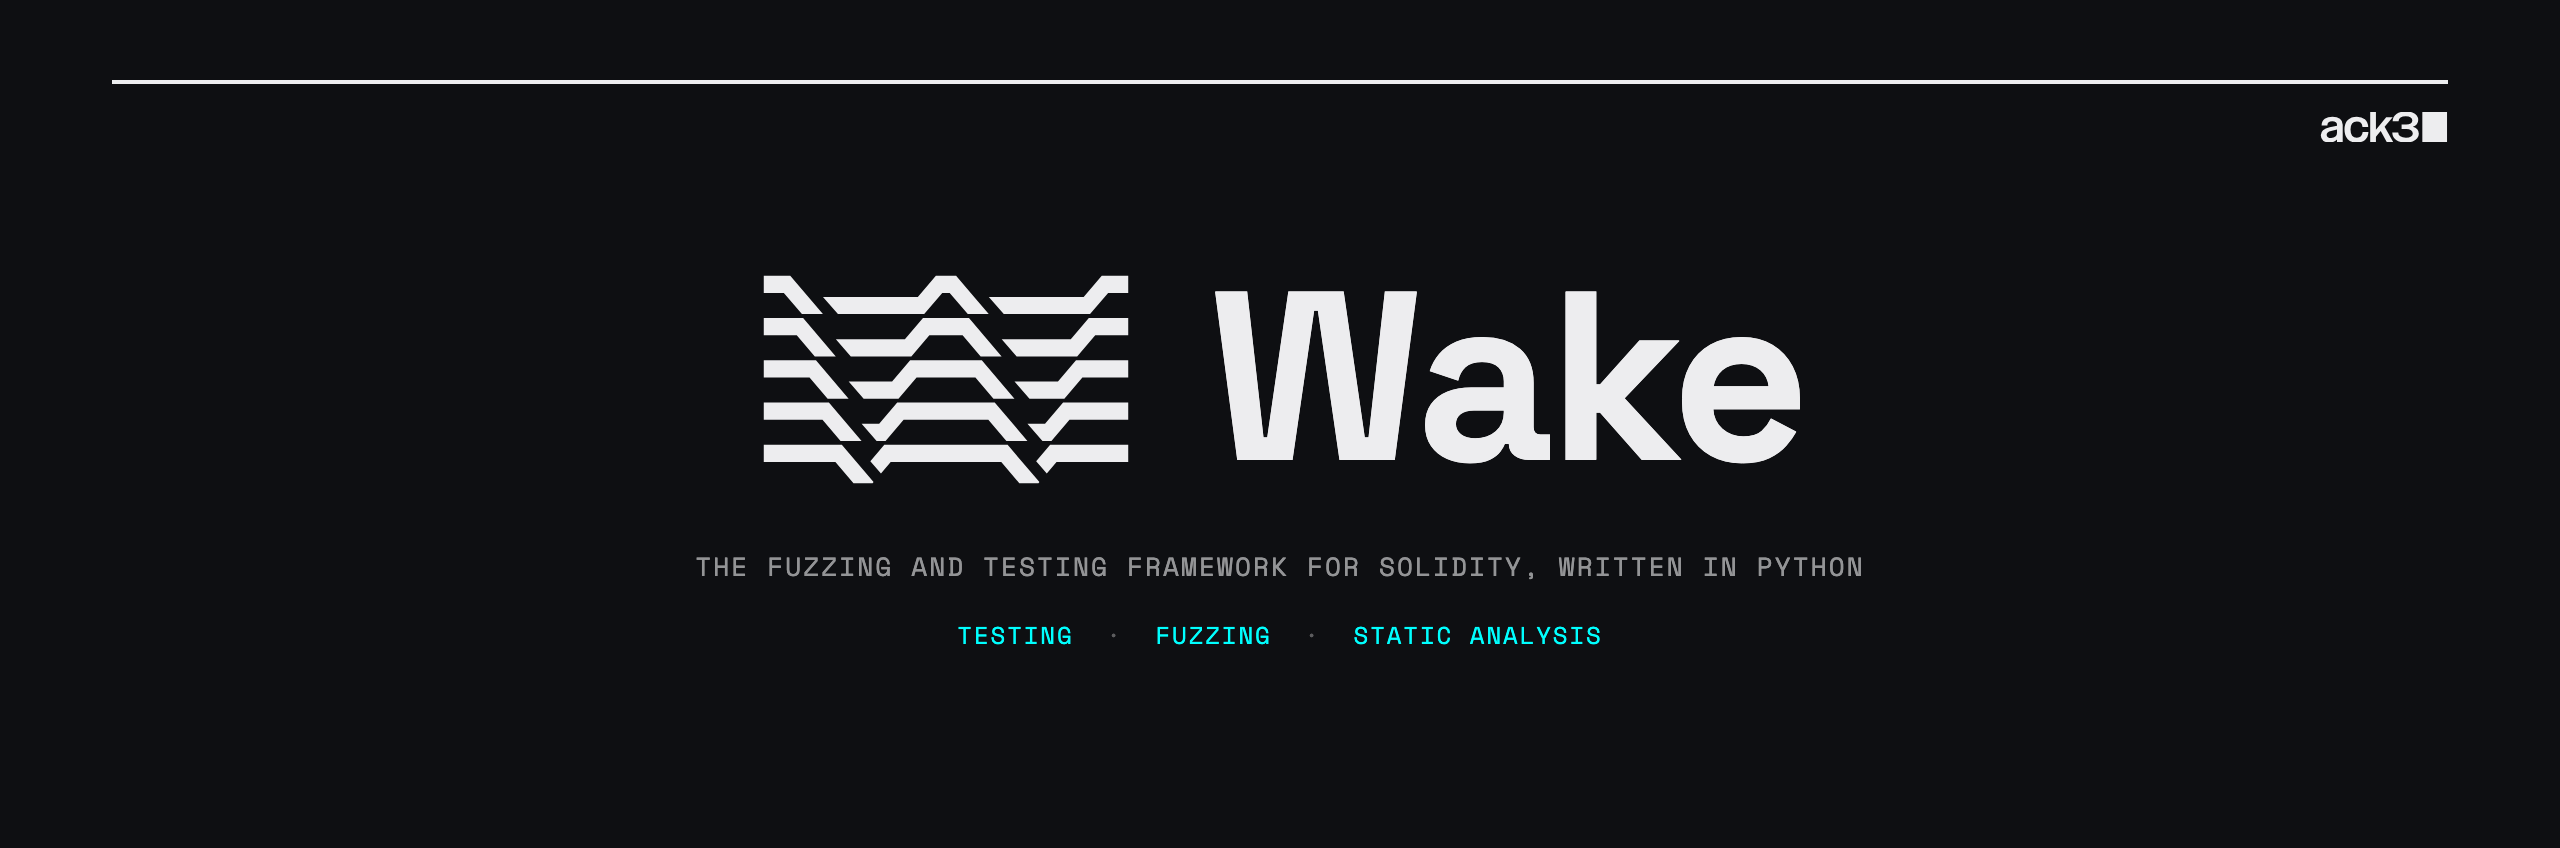
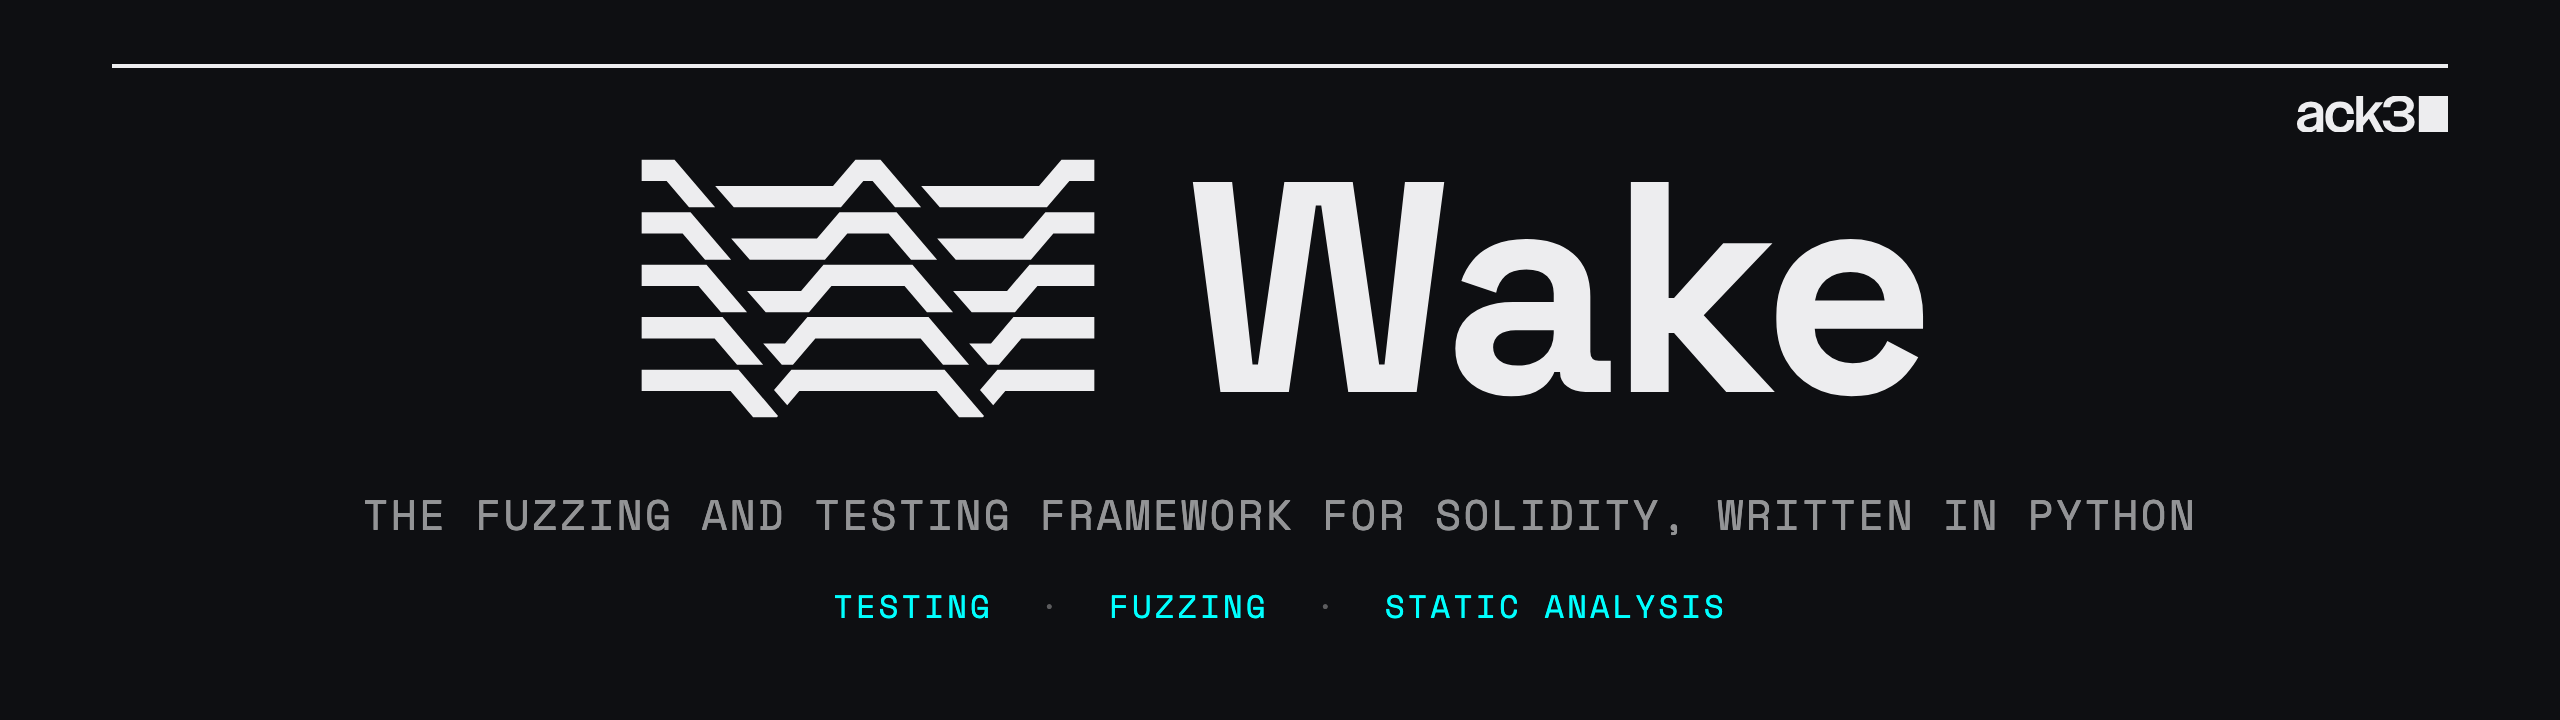
docs: README cover (#9)
Shorter cover with a larger lockup and larger type.

diff --git a/images/wake_cover.html b/images/wake_cover.html
@@ -1,7 +1,7 @@
 <style>
 @import url('https://fonts.googleapis.com/css2?family=Space+Grotesk:wght@400;500;700&family=Space+Mono:wght@400;700&display=swap');
 *{box-sizing:border-box;margin:0}
-html,body{width:1280px;height:424px;overflow:hidden}
+html,body{width:1280px;height:360px;overflow:hidden}
 body{background:#0E0F12;color:#EDEDEF;font-family:'Space Grotesk',system-ui,sans-serif;position:relative}
 .mono{font-family:'Space Mono',ui-monospace,monospace}
 .frame{position:absolute;inset:0;padding:40px 56px 44px;display:flex;flex-direction:column}
@@ -21,10 +21,10 @@ pre{background:#0A0B0E;padding:16px 18px;font-size:12.5px;line-height:1.75;color
 .fn{color:#EDEDEF}.addr{color:#6B8AFF}.dim{color:rgba(237,237,239,.6)}.bad{color:#FF6B6B}.ok{color:#00FFFF}
 .cap{margin-top:10px;font-size:11px;line-height:1.5;color:rgba(237,237,239,.6)}
 
-.frame{padding:40px 56px}
-.center{flex:1;display:flex;flex-direction:column;align-items:center;justify-content:center;gap:24px}
-.center .word{font-size:120px}
-.center .lockup{gap:36px}
+.frame{padding:32px 56px 36px}
+.center{flex:1;display:flex;flex-direction:column;align-items:center;justify-content:center;gap:22px;margin-top:-6px}
+.center .word{font-size:150px}
+.center .lockup{gap:40px}
 
 .tags{display:flex;gap:10px}
 .tag{font-family:'Space Mono',monospace;font-weight:700;font-size:11px;letter-spacing:.06em;text-transform:uppercase;line-height:1;padding:7px 10px 6px;color:#6B8AFF;border:1px solid color-mix(in srgb,#6B8AFF 55%,transparent);border-radius:4px;font-weight:400}
@@ -32,9 +32,9 @@ pre{background:#0A0B0E;padding:16px 18px;font-size:12.5px;line-height:1.75;color
 </style>
 <div class="frame">
   <div class="rule"></div>
-  <div class="spec mono"><span></span><span style="display:flex;align-items:center;gap:10px;font-size:9px"><svg viewBox="0 0 2880 680" height="15" style="display:block;color:#EDEDEF;fill:currentColor"><path d="M18 529Q18 388 220 346L386 311V296Q386 212 277 212Q223 212 195 234Q167 256 166 304H36Q39 202 108 154Q178 106 283 106Q390 106 452 154Q515 202 515 291V680H386V624Q320 693 212 693Q127 693 72 649Q18 605 18 529ZM253 589Q313 589 350 558Q386 528 386 470V398L251 429Q151 450 151 515Q151 552 179 570Q207 589 253 589Z M555 399Q555 257 630 182Q704 106 835 106Q947 106 1017 164Q1087 221 1093 338H963Q954 215 834 215Q692 215 692 398Q692 494 728 539Q764 584 835 584Q956 584 967 455H1098Q1093 572 1021 632Q949 693 833 693Q702 693 628 616Q555 540 555 399Z M1138 -30H1268V403L1501 118H1648L1465 335L1659 680H1513L1376 431L1268 560V680H1138Z M1638 463H1773Q1776 522 1822 552Q1867 583 1948 583Q2024 583 2064 556Q2104 530 2104 485Q2104 437 2064 411Q2024 385 1957 385H1850V285H1957Q2018 285 2056 260Q2093 235 2093 190Q2093 147 2056 122Q2018 97 1945 97Q1869 97 1826 126Q1784 155 1781 211H1646Q1651 102 1733 44Q1815 -13 1946 -13Q2032 -13 2096 11Q2159 35 2193 79Q2227 123 2227 181Q2227 237 2195 277Q2163 317 2105 333Q2169 348 2205 390Q2241 432 2241 491Q2241 551 2204 596Q2168 642 2101 668Q2034 693 1944 693Q1808 693 1726 634Q1643 575 1638 463Z"/><rect x="2320" y="0" width="560" height="680"/></svg></span></div>
+  <div class="spec mono"><span></span><span style="display:flex;align-items:center;gap:10px;font-size:9px"><svg viewBox="0 0 2880 680" height="18" style="display:block;color:#EDEDEF;fill:currentColor"><path d="M18 529Q18 388 220 346L386 311V296Q386 212 277 212Q223 212 195 234Q167 256 166 304H36Q39 202 108 154Q178 106 283 106Q390 106 452 154Q515 202 515 291V680H386V624Q320 693 212 693Q127 693 72 649Q18 605 18 529ZM253 589Q313 589 350 558Q386 528 386 470V398L251 429Q151 450 151 515Q151 552 179 570Q207 589 253 589Z M555 399Q555 257 630 182Q704 106 835 106Q947 106 1017 164Q1087 221 1093 338H963Q954 215 834 215Q692 215 692 398Q692 494 728 539Q764 584 835 584Q956 584 967 455H1098Q1093 572 1021 632Q949 693 833 693Q702 693 628 616Q555 540 555 399Z M1138 -30H1268V403L1501 118H1648L1465 335L1659 680H1513L1376 431L1268 560V680H1138Z M1638 463H1773Q1776 522 1822 552Q1867 583 1948 583Q2024 583 2064 556Q2104 530 2104 485Q2104 437 2064 411Q2024 385 1957 385H1850V285H1957Q2018 285 2056 260Q2093 235 2093 190Q2093 147 2056 122Q2018 97 1945 97Q1869 97 1826 126Q1784 155 1781 211H1646Q1651 102 1733 44Q1815 -13 1946 -13Q2032 -13 2096 11Q2159 35 2193 79Q2227 123 2227 181Q2227 237 2195 277Q2163 317 2105 333Q2169 348 2205 390Q2241 432 2241 491Q2241 551 2204 596Q2168 642 2101 668Q2034 693 1944 693Q1808 693 1726 634Q1643 575 1638 463Z"/><rect x="2320" y="0" width="560" height="680"/></svg></span></div>
   <div class="center">
-    <div class="lockup"><svg viewBox="30 71 196 114" width="190" aria-label="Wake mark" style="display:block;color:#EDEDEF"><path fill-rule="evenodd" clip-rule="evenodd" d="M64.5078 94.7872H53.6714L44.3617 83.873H34V75H47.6573L64.5078 94.7872Z" fill="currentColor"/><path fill-rule="evenodd" clip-rule="evenodd" d="M142.523 85.9326L150.055 94.7872H139.228L129.909 83.873H126.073L116.763 94.7872H72.2538L64.536 85.9326H113.468L122.777 75H133.204L142.523 85.9326Z" fill="currentColor"/><path fill-rule="evenodd" clip-rule="evenodd" d="M222 75V83.873H211.638L202.31 94.7872H157.8L150.083 85.9326H199.014L208.343 75H222Z" fill="currentColor"/><path fill-rule="evenodd" clip-rule="evenodd" d="M54.3044 96.8009L71.1549 116.588H60.3185L51.0088 105.674H34V96.8009H54.3044Z" fill="currentColor"/><path fill-rule="evenodd" clip-rule="evenodd" d="M156.702 116.588H145.874L136.555 105.674H119.426L110.116 116.588H78.9006L71.1829 107.734H106.802L116.13 96.8009H139.86L156.702 116.588Z" fill="currentColor"/><path fill-rule="evenodd" clip-rule="evenodd" d="M222 96.8009V105.674H204.982L195.663 116.588H164.447L156.73 107.734H192.367L201.677 96.8009H222Z" fill="currentColor"/><path fill-rule="evenodd" clip-rule="evenodd" d="M77.7741 138.398H66.9377L57.6094 127.475H34V118.611H60.9236L77.7741 138.398Z" fill="currentColor"/><path fill-rule="evenodd" clip-rule="evenodd" d="M163.321 138.398H152.484L143.175 127.475H112.825L103.497 138.398H85.5198L77.7928 129.534H100.201L109.511 118.611H146.47L163.321 138.398Z" fill="currentColor"/><path fill-rule="evenodd" clip-rule="evenodd" d="M222 118.611V127.475H198.362L189.053 138.398H171.066L163.339 129.534H185.757L195.067 118.611H222Z" fill="currentColor"/><path fill-rule="evenodd" clip-rule="evenodd" d="M84.4585 160.208H73.6034L64.2937 149.276H34V140.403H67.5893L84.4585 160.208Z" fill="currentColor"/><path fill-rule="evenodd" clip-rule="evenodd" d="M170.005 160.208H159.15L149.84 149.276H106.141L96.8311 160.208H92.2041L84.4678 151.335H93.5354L102.845 140.403H153.136L170.005 160.208Z" fill="currentColor"/><path fill-rule="evenodd" clip-rule="evenodd" d="M222 140.403V149.276H191.706L182.378 160.208H177.751L170.014 151.335H179.082L188.41 140.403H222Z" fill="currentColor"/><path fill-rule="evenodd" clip-rule="evenodd" d="M74.2551 162.213L90.6308 181.439L90.156 182H80.2784L70.9501 171.067H34V162.213H74.2551Z" fill="currentColor"/><path fill-rule="evenodd" clip-rule="evenodd" d="M159.792 162.213L176.187 181.448L175.712 182H165.825L156.515 171.067H99.4748L94.4569 176.961L88.9642 170.663L96.1792 162.213H159.792Z" fill="currentColor"/><path fill-rule="evenodd" clip-rule="evenodd" d="M222 162.213V171.067H185.021L179.994 176.961L174.511 170.672L181.726 162.213H222Z" fill="currentColor"/></svg><div class="word">Wake</div></div>
-    <div class="by mono" style="font-size:13px">the fuzzing and testing framework for solidity, written in python</div><span class="mono" style="font-size:12px;letter-spacing:.08em;text-transform:uppercase;color:#00FFFF;margin-top:-8px">testing <span style="color:rgba(237,237,239,.35);margin:0 8px">·</span> fuzzing <span style="color:rgba(237,237,239,.35);margin:0 8px">·</span> static analysis</span>
+    <div class="lockup"><svg viewBox="30 71 196 114" width="236" aria-label="Wake mark" style="display:block;color:#EDEDEF"><path fill-rule="evenodd" clip-rule="evenodd" d="M64.5078 94.7872H53.6714L44.3617 83.873H34V75H47.6573L64.5078 94.7872Z" fill="currentColor"/><path fill-rule="evenodd" clip-rule="evenodd" d="M142.523 85.9326L150.055 94.7872H139.228L129.909 83.873H126.073L116.763 94.7872H72.2538L64.536 85.9326H113.468L122.777 75H133.204L142.523 85.9326Z" fill="currentColor"/><path fill-rule="evenodd" clip-rule="evenodd" d="M222 75V83.873H211.638L202.31 94.7872H157.8L150.083 85.9326H199.014L208.343 75H222Z" fill="currentColor"/><path fill-rule="evenodd" clip-rule="evenodd" d="M54.3044 96.8009L71.1549 116.588H60.3185L51.0088 105.674H34V96.8009H54.3044Z" fill="currentColor"/><path fill-rule="evenodd" clip-rule="evenodd" d="M156.702 116.588H145.874L136.555 105.674H119.426L110.116 116.588H78.9006L71.1829 107.734H106.802L116.13 96.8009H139.86L156.702 116.588Z" fill="currentColor"/><path fill-rule="evenodd" clip-rule="evenodd" d="M222 96.8009V105.674H204.982L195.663 116.588H164.447L156.73 107.734H192.367L201.677 96.8009H222Z" fill="currentColor"/><path fill-rule="evenodd" clip-rule="evenodd" d="M77.7741 138.398H66.9377L57.6094 127.475H34V118.611H60.9236L77.7741 138.398Z" fill="currentColor"/><path fill-rule="evenodd" clip-rule="evenodd" d="M163.321 138.398H152.484L143.175 127.475H112.825L103.497 138.398H85.5198L77.7928 129.534H100.201L109.511 118.611H146.47L163.321 138.398Z" fill="currentColor"/><path fill-rule="evenodd" clip-rule="evenodd" d="M222 118.611V127.475H198.362L189.053 138.398H171.066L163.339 129.534H185.757L195.067 118.611H222Z" fill="currentColor"/><path fill-rule="evenodd" clip-rule="evenodd" d="M84.4585 160.208H73.6034L64.2937 149.276H34V140.403H67.5893L84.4585 160.208Z" fill="currentColor"/><path fill-rule="evenodd" clip-rule="evenodd" d="M170.005 160.208H159.15L149.84 149.276H106.141L96.8311 160.208H92.2041L84.4678 151.335H93.5354L102.845 140.403H153.136L170.005 160.208Z" fill="currentColor"/><path fill-rule="evenodd" clip-rule="evenodd" d="M222 140.403V149.276H191.706L182.378 160.208H177.751L170.014 151.335H179.082L188.41 140.403H222Z" fill="currentColor"/><path fill-rule="evenodd" clip-rule="evenodd" d="M74.2551 162.213L90.6308 181.439L90.156 182H80.2784L70.9501 171.067H34V162.213H74.2551Z" fill="currentColor"/><path fill-rule="evenodd" clip-rule="evenodd" d="M159.792 162.213L176.187 181.448L175.712 182H165.825L156.515 171.067H99.4748L94.4569 176.961L88.9642 170.663L96.1792 162.213H159.792Z" fill="currentColor"/><path fill-rule="evenodd" clip-rule="evenodd" d="M222 162.213V171.067H185.021L179.994 176.961L174.511 170.672L181.726 162.213H222Z" fill="currentColor"/></svg><div class="word">Wake</div></div>
+    <div class="by mono" style="font-size:21px;letter-spacing:.06em">the fuzzing and testing framework for solidity, written in python</div><span class="mono" style="font-size:16px;letter-spacing:.1em;text-transform:uppercase;color:#00FFFF;margin-top:-4px">testing <span style="color:rgba(237,237,239,.35);margin:0 12px">·</span> fuzzing <span style="color:rgba(237,237,239,.35);margin:0 12px">·</span> static analysis</span>
   </div>
 </div>
